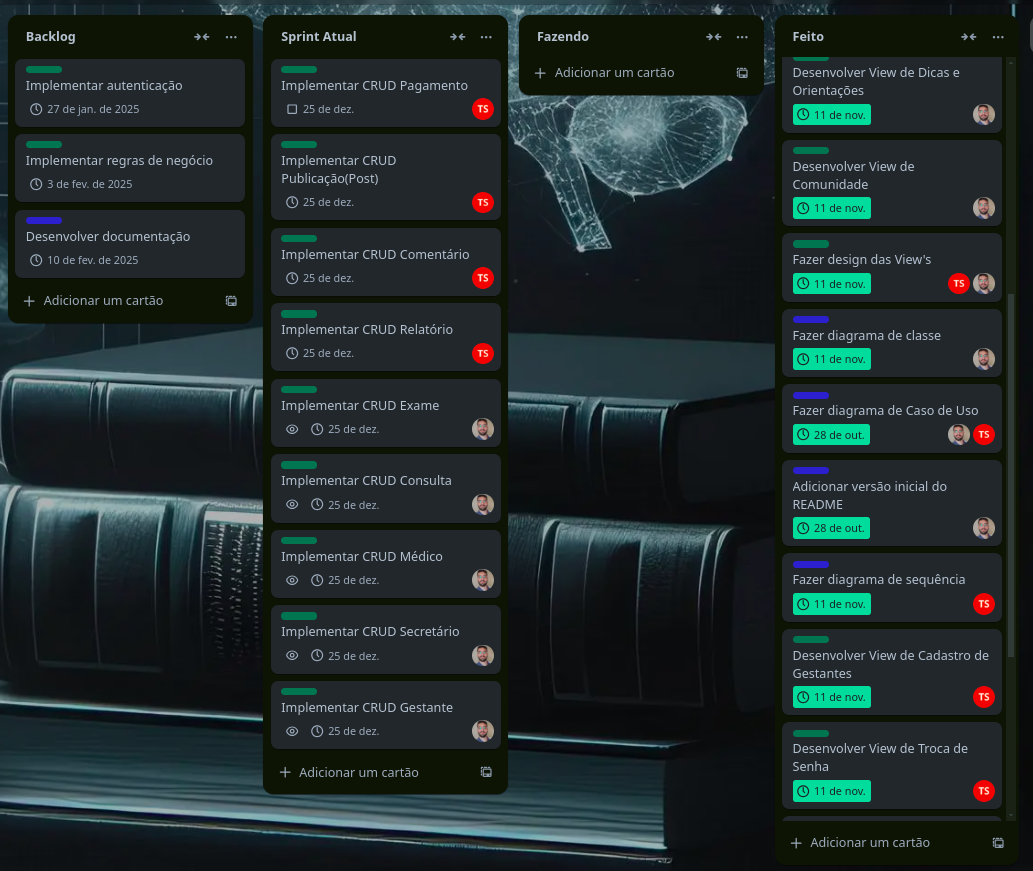
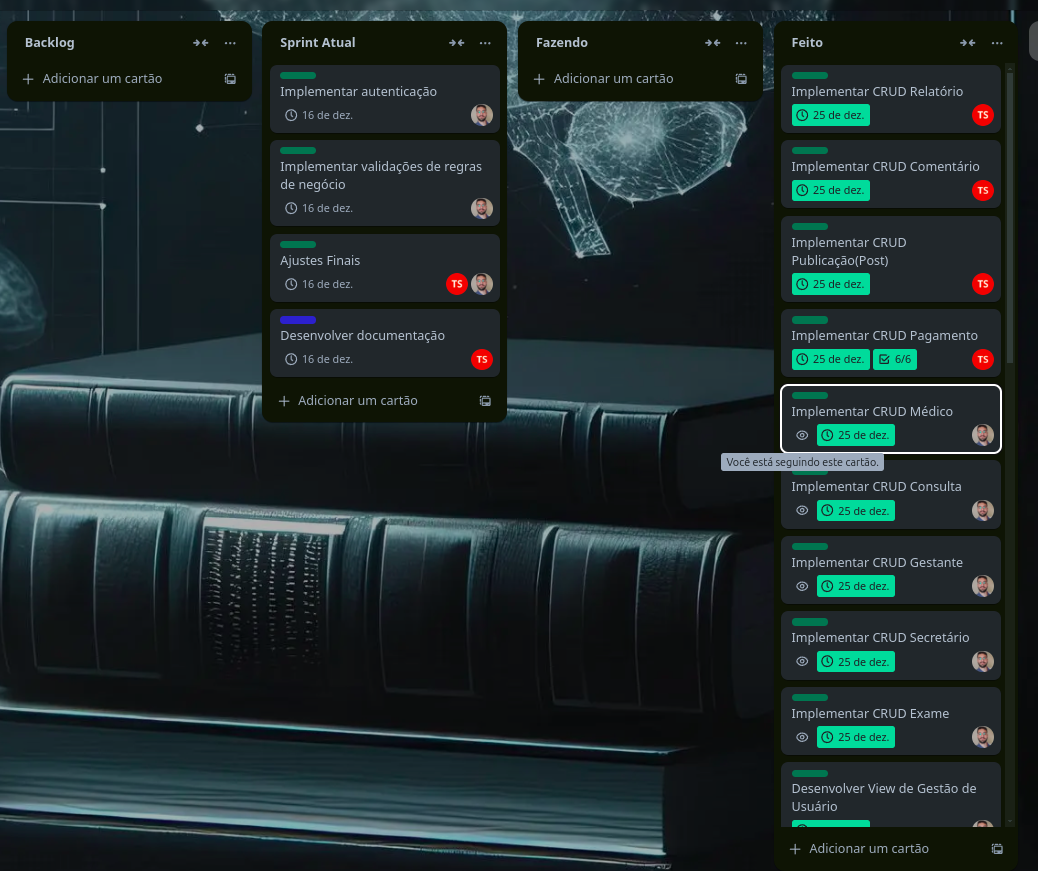
docs: Atualizar Quadro Scrum (Sprint 4)

diff --git a/README.md b/README.md
@@ -4,7 +4,6 @@
 1. [Introdução](#introdução)
 2. [Modelagem](#modelagem)
     - [Quadro Scrum](#quadro-scrum)
-    - [Protótipo do Projeto](#protótipo-do-projeto)
     - [Diagrama de Casos de Uso](#diagrama-de-casos-de-uso)
     - [Diagrama de Classes](#diagrama-de-classes)
     - [Diagramas de Sequência](#diagramas-de-sequência)
@@ -25,12 +24,7 @@ Além disso, o BemGestar oferece uma comunidade de apoio, onde as gestantes pode
 O desenvolvimento do BemGestar segue a metodologia ágil Scrum, permitindo um gerenciamento eficiente do projeto através de sprints, priorização de tarefas e acompanhamento contínuo do progresso. O quadro de tarefas está organizado no Trello, onde é possível visualizar o backlog, as sprints em andamento e as tarefas concluídas. Essa abordagem garante uma entrega incremental e adaptável, focada na evolução contínua do sistema.
 
 ![Quadro Scrum](./docs/quadroScrum.png)
-*Atualizado em 31/10/2024
-
-### Protótipo do Projeto
-O protótipo do BemGestar foi desenvolvido no Figma, projetado com uma interface amigável e acessível, especialmente focada na experiência de gestantes e profissionais de saúde. As telas têm um design leve e acolhedor, com uma paleta de cores suaves, voltada para criar um ambiente seguro e confortável para o acompanhamento gestacional. Para acessar o protótipo completo, acesse o nosso [Figma](https://www.figma.com/design/42ONyUTdi21II9Jtm1otPi/bemGestar?node-id=2077-341&node-type=canvas&t=Okix4vPe28b4qhUG-0).
-
-![Protótipo do Projeto](./docs/prototipo.png)
+*Atualizado em 26/11/2024
 
 ### Diagrama de Casos de Uso
 
